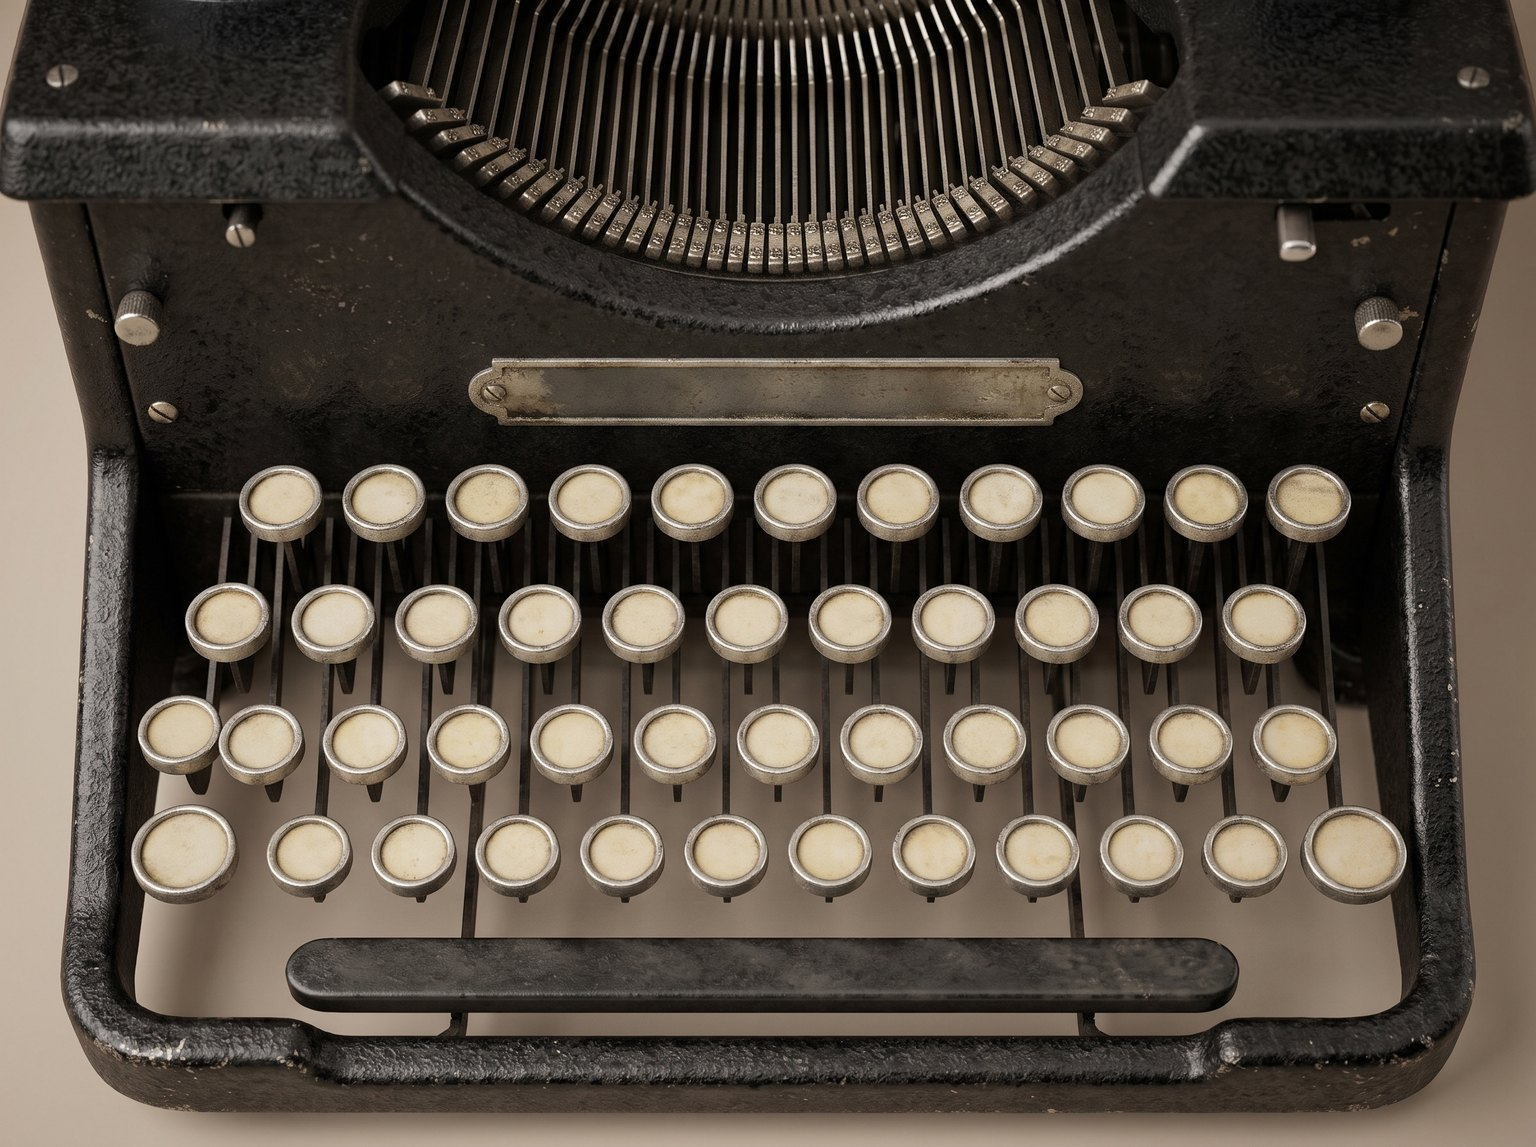
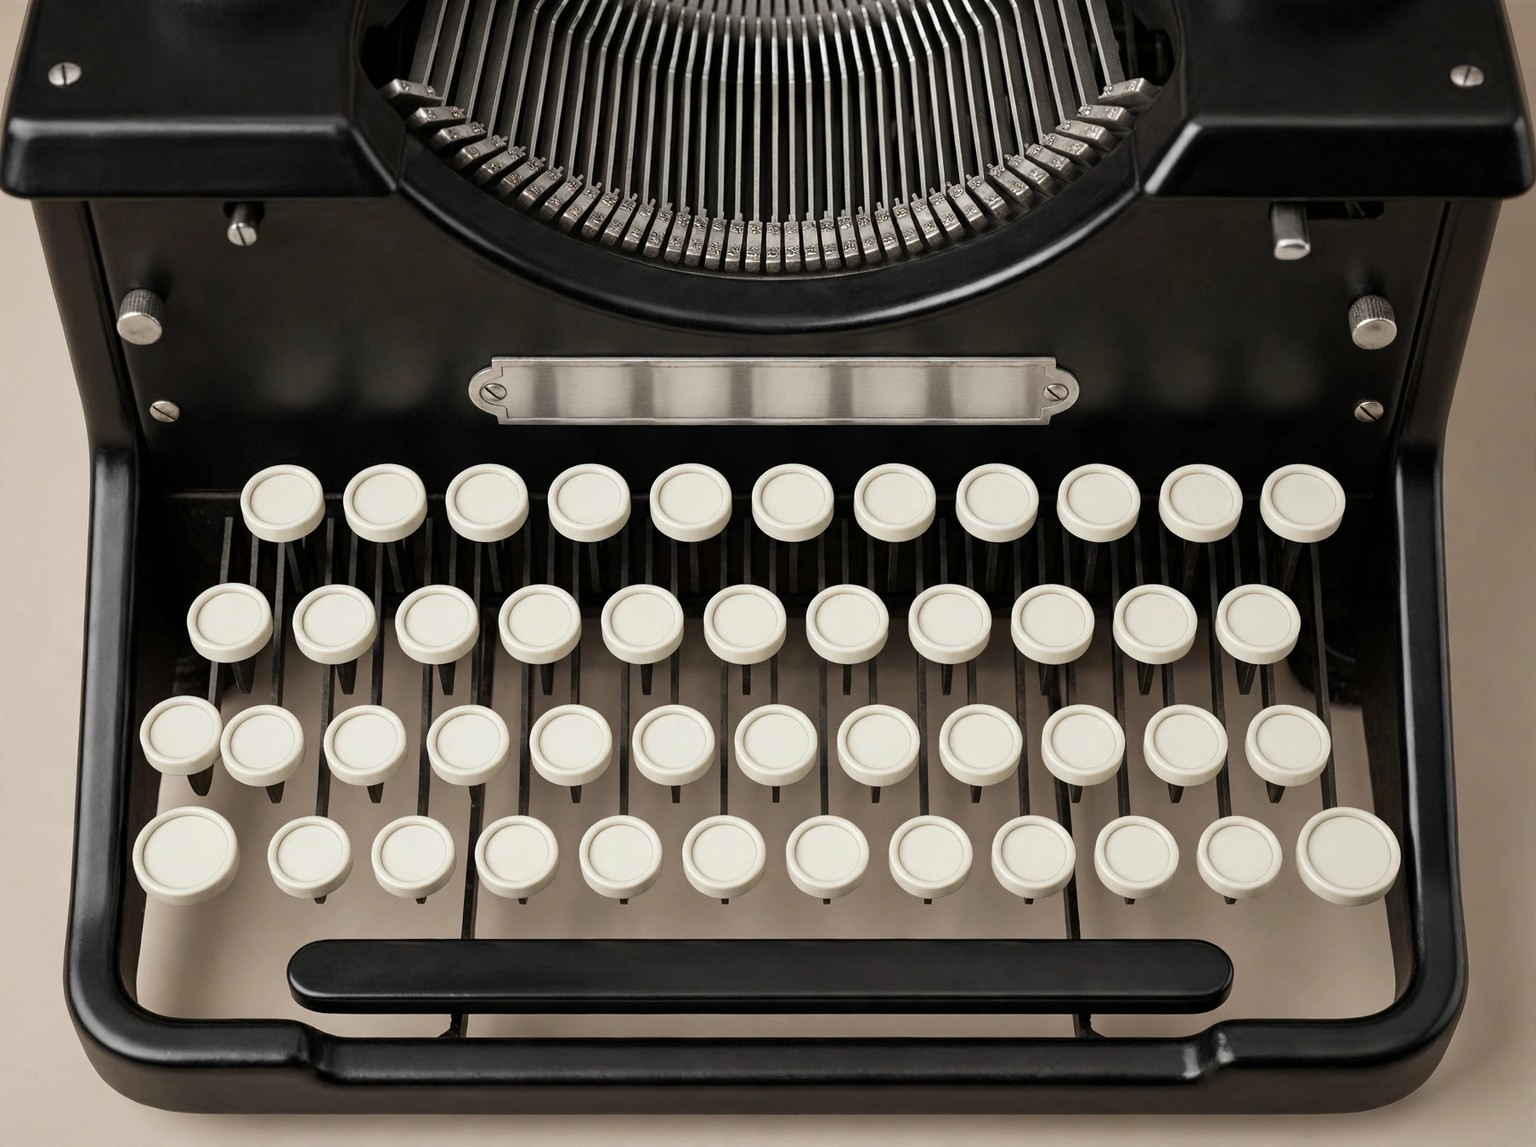
A1：替换 12 张做旧画稿
- 1920s/1930s/1950s/1960s 各 keyboard、carriage、side 同名覆盖（1536x1147 / 1536x857）
- hero 不造、2020s 不动；代码与引用路径零改动
- 双机逐台验真 3719–3734

diff --git a/docs/evidence/audit/item02-triage.md b/docs/evidence/audit/item02-triage.md
@@ -237,3 +237,19 @@
 - `git rm` 5 张亮面 PNG。
 
 **验真**：signed hap 构建通过；双机四页正常——手机 3711 主页／3712 打字机／3713 收藏／3714 导出；平板 3715／3716／3717／3718。
+
+## 16. A1 落地记录：12 张画稿替换（2026-11-27）
+
+按 Kit 定的口径：A1 改为 12 张（1920s/1930s/1950s/1960s 各 keyboard／carriage／side），按批 74 增补 36 的做旧标准（保养良好、自然使用痕迹）重生成；hero 不造（全仓无活引用），2020s 4 张不动。
+
+**替换**（同名覆盖，路径与代码零改动）
+- `machine/1920s-upright-{keyboard,carriage,side}.jpg`（1536×1147）
+- `machine/{1930s-portable,1950s-streamlined,1960s-electric}-{keyboard,carriage,side}.jpg`（各 1536×857）
+
+**核对**：12 张尺寸与 Kit 给的规格一致；引用路径未变；无代码 diff。
+**宽高比**：三类盒子均为 Contain/Cover，比例不符只裁切或留白（不拉伸）；1% 口径只针对 Fill，本批不涉及。
+
+**验真**：signed hap 构建通过；双机逐台——
+手机：主页 3719／打字机 3720／收藏 3721／1920s 详情 3722／1930s 3723／1950s 3724／1960s 3725／导出 3726
+平板：主页 3727／打字机 3728／收藏 3729／1920s 3730／1930s 3731／1950s 3732／1960s 3733／导出 3734
+四台机的键盘照、字车照、侧面照均已是新画稿，页面布局无变化。
